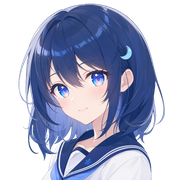
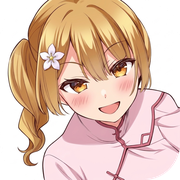
style: refresh branding and simplify home and 404 layouts

diff --git a/src/.vitepress/theme/components/BrandNotFound.vue b/src/.vitepress/theme/components/BrandNotFound.vue
@@ -17,10 +17,6 @@ import { withBase } from "vitepress";
         </div>
         <p class="lost-hint"><a :href="withBase('/api/get_bot_list')">API 文档 <span aria-hidden="true">↗</span></a></p>
       </div>
-
-      <div class="lost-art" aria-hidden="true">
-        <img class="lost-character" :src="withBase('/brand/mengka-404-lolita-blue-fullbody.webp')" alt="" width="800" height="1200" draggable="false" />
-      </div>
     </div>
     <footer class="lost-footer"><span>Meng Ka <span class="lost-footer-separator">/</span> 开发文档</span><span>偶尔迷路，也会遇见新的风景。</span></footer>
   </section>
@@ -43,15 +39,15 @@ import { withBase } from "vitepress";
   color: var(--lost-ink);
   font-family: var(--vp-font-family-base);
 }
-.lost-layout { display: grid; grid-template-columns: 1fr 1.08fr; align-items: center; gap: 24px; width: 100%; margin: auto 0; padding: 20px 0 44px; }
-.lost-copy { position: relative; z-index: 2; padding: 16px 0; }
-.lost-eyebrow { display: flex; align-items: center; gap: 9px; margin: 0 0 28px; font-size: 11px; font-weight: 600; letter-spacing: 2.3px; color: var(--lost-muted); }
+.lost-layout { display: grid; justify-items: center; width: 100%; margin: auto 0; padding: 20px 0 44px; }
+.lost-copy { position: relative; z-index: 2; padding: 16px 0; text-align: center; }
+.lost-eyebrow { display: flex; justify-content: center; align-items: center; gap: 9px; margin: 0 0 28px; font-size: 11px; font-weight: 600; letter-spacing: 2.3px; color: var(--lost-muted); }
 .lost-code { position: relative; display: inline-flex; margin: 0; font-size: clamp(112px, 12vw, 164px); font-weight: 800; line-height: .95; letter-spacing: -10px; }
 .lost-code > span:first-child { color: var(--lost-blue); }
 .lost-kicker { margin: 14px 0 26px; font-size: 10px; font-weight: 600; letter-spacing: 4.5px; color: var(--lost-muted); }
 .lost-copy h1 { margin: 0; font-size: clamp(32px, 3.1vw, 43px); font-weight: 650; letter-spacing: -1.5px; line-height: 1.45; color: var(--lost-ink); }
 .lost-description { margin: 20px 0 0; color: var(--lost-muted); font-size: 14px; line-height: 1.95; }
-.lost-actions { display: flex; align-items: center; flex-wrap: wrap; gap: 12px; margin-top: 30px; }
+.lost-actions { display: flex; justify-content: center; align-items: center; flex-wrap: wrap; gap: 12px; margin-top: 30px; }
 .lost-actions a, .lost-actions button { display: inline-flex; justify-content: center; align-items: center; gap: 20px; min-height: 46px; border-radius: 9px; padding: 0 20px; font: inherit; font-size: 13px; font-weight: 500; text-decoration: none; cursor: pointer; transition: background .2s, transform .2s; }
 .lost-actions a:hover, .lost-actions button:hover { transform: translateY(-2px); }
 .lost-primary { border: 1px solid var(--vp-button-brand-border); background: var(--vp-button-brand-bg); color: var(--vp-button-brand-text); }
@@ -64,17 +60,9 @@ import { withBase } from "vitepress";
 .lost-hint { margin: 22px 0 0; font-size: 12px; line-height: 1.8; color: var(--lost-muted); }
 .lost-hint a { color: var(--lost-blue); text-decoration: none; }
 .lost-hint a:hover { text-decoration: underline; }
-.lost-art { display: flex; align-items: center; justify-content: center; height: 560px; width: 100%; }
-.lost-character { display: block; width: auto; height: 100%; max-width: 100%; object-fit: contain; user-select: none; -webkit-user-drag: none; }
 .lost-footer { display: flex; justify-content: space-between; align-items: center; gap: 16px; flex-wrap: wrap; width: 100%; padding: 22px 0 24px; border-top: 1px solid var(--lost-line); color: var(--lost-muted); font-size: 11px; letter-spacing: .4px; }
 .lost-footer-separator { margin: 0 10px; opacity: .5; }
 @media (min-width: 1600px) { .lost-layout { padding-top: 48px; padding-bottom: 72px; } }
-@media (min-width: 960px) and (max-width: 1099px) {
-  .lost-art { height: 500px; }
-  .lost-description { max-width: 320px; }
-  .lost-desktop-break { display: none; }
-  .lost-layout { gap: 0; grid-template-columns: 1fr 1fr; }
-}
 @media (max-width: 959px) {
   .lost-page { padding: 92px 24px 0; }
   .lost-layout { display: flex; flex-direction: column; gap: 24px; padding: 0 0 24px; }
@@ -89,7 +77,6 @@ import { withBase } from "vitepress";
   .lost-actions { justify-content: center; margin-top: 24px; gap: 10px; }
   .lost-actions a, .lost-actions button { min-height: 44px; padding: 0 16px; gap: 12px; font-size: 12px; }
   .lost-hint { margin-top: 16px; font-size: 11px; }
-  .lost-art { width: min(320px, 100%); height: 400px; margin-top: 6px; }
   .lost-footer { justify-content: center; padding: 18px 0; text-align: center; font-size: 10px; gap: 8px 24px; }
 }
 @media (prefers-reduced-motion: reduce) { .lost-actions a, .lost-actions button { transition: none; } .lost-actions a:hover, .lost-actions button:hover { transform: none; } }

diff --git a/src/.vitepress/theme/custom.css b/src/.vitepress/theme/custom.css
@@ -26,7 +26,8 @@
 .VPNavBarTitle .logo {
   width: 30px;
   height: 30px;
-  border-radius: 0;
+  border-radius: 8px;
+  object-fit: cover;
 }
 
 .brand-not-found > .VPFooter {
@@ -68,6 +69,8 @@
 .brand-home .VPHero .container {
   max-width: 1080px;
   align-items: center;
+  justify-content: center;
+  text-align: center;
   gap: 64px;
 }
 
@@ -103,6 +106,7 @@
 
 .brand-home .VPHero .name {
   max-width: 100%;
+  margin-inline: auto;
   background: none;
   color: var(--vp-home-hero-name-color);
   font-size: clamp(32px, 4vw, 48px);
@@ -139,6 +143,7 @@
 
 .brand-home .VPHero .tagline {
   max-width: 460px;
+  margin-inline: auto;
   padding-top: 22px;
   font-size: 16px;
   font-weight: 400;
@@ -146,6 +151,7 @@
 }
 
 .brand-home .VPHero .actions {
+  justify-content: center;
   padding-top: 28px;
 }
 

diff --git a/src/index.md b/src/index.md
@@ -6,9 +6,6 @@ markdownStyles: false
 hero:
   name: Meng Ka · Docs
   tagline: 通过 WebSocket 接入，<br />开发账号管理、消息处理与 QQ 业务插件。
-  image:
-    src: /logo.png
-    alt: Meng Ka 形象
   actions:
     - theme: brand
       text: 快速上手 →
